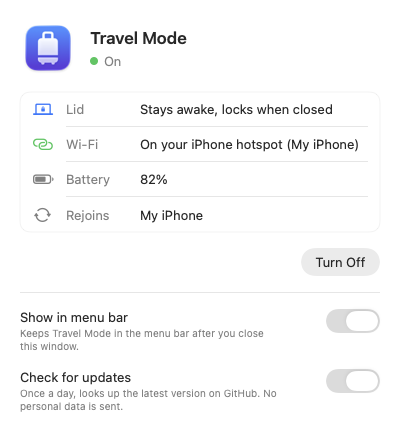
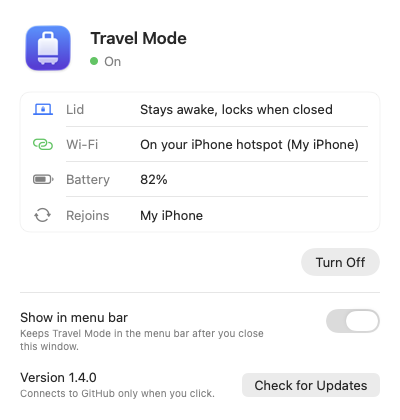
Update check: a button instead of a daily background check
Travel Mode now goes online only when you click Check for Updates (window footer,
app menu, menu bar menu). The result shows next to the button: "You're up to date"
or the new version with a View on GitHub link. Removes the toggle, the daily timer,
the banner and the stored update state. README: Watch > Custom > Releases tip.

diff --git a/src/app/main.swift b/src/app/main.swift
@@ -129,68 +129,41 @@ final class TravelModel: ObservableObject {
         }
     }
 
-    @Published var checkForUpdates: Bool {
-        didSet {
-            UserDefaults.standard.set(checkForUpdates, forKey: "checkForUpdates")
-            if checkForUpdates { checkUpdatesIfDue() } else { setUpdate(nil) }
-        }
+    enum UpdateStatus: Equatable {
+        case idle, checking, upToDate
+        case available(AvailableUpdate)
+        case failed(String)
     }
-    @Published private(set) var update: AvailableUpdate?
+    /// Changes only when the user clicks Check for Updates: Travel Mode never checks on its own.
+    @Published private(set) var updateStatus = UpdateStatus.idle
+    var update: AvailableUpdate? {
+        if case .available(let u) = updateStatus { return u }
+        return nil
+    }
 
     var onMenuBarChange: ((Bool) -> Void)?
     var onChange: (() -> Void)?
 
     let tool: String
     private var timer: Timer?
-    private var updateTimer: Timer?
     private var refreshing = false
-    private var checkingUpdates = false
 
     init() {
         tool = Bundle.main.resourceURL!.appendingPathComponent("bin/travel-mode").path
-        let defaults = UserDefaults.standard
-        defaults.register(defaults: ["checkForUpdates": true])
-        showInMenuBar = defaults.bool(forKey: "showInMenuBar")
-        checkForUpdates = defaults.bool(forKey: "checkForUpdates")
-        // An update found by an earlier check, until this copy is that version or newer.
-        if checkForUpdates, let v = defaults.string(forKey: "updateVersion"),
-           let p = defaults.string(forKey: "updatePage"), let page = URL(string: p),
-           UpdateCheck.isNewer(v, than: UpdateCheck.currentVersion) {
-            update = AvailableUpdate(version: v, page: page)
-        }
+        showInMenuBar = UserDefaults.standard.bool(forKey: "showInMenuBar")
     }
 
-    // Updates
-
-    func setUpdate(_ u: AvailableUpdate?) {
-        update = u
-        let defaults = UserDefaults.standard
-        defaults.set(u?.version, forKey: "updateVersion")
-        defaults.set(u?.page.absoluteString, forKey: "updatePage")
-        onChange?()
-    }
-
-    func apply(_ result: UpdateCheck.Result) {
-        switch result {
-        case .available(let v, let page):
-            setUpdate(AvailableUpdate(version: v, page: page))
-        case .upToDate:
-            setUpdate(nil)
-        case .failed:
-            return // offline or similar: keep what we knew and try again later
-        }
-        UserDefaults.standard.set(Date().timeIntervalSince1970, forKey: "lastUpdateCheck")
-    }
-
-    /// At most once a day, and only when the user leaves "Check for updates" on.
-    func checkUpdatesIfDue() {
-        guard checkForUpdates, !checkingUpdates else { return }
-        let last = UserDefaults.standard.double(forKey: "lastUpdateCheck")
-        guard Date().timeIntervalSince1970 - last >= 24 * 3600 else { return }
-        checkingUpdates = true
+    func checkForUpdates() {
+        guard updateStatus != .checking else { return }
+        updateStatus = .checking
         UpdateCheck.check { [weak self] result in
-            self?.checkingUpdates = false
-            self?.apply(result)
+            guard let self = self else { return }
+            switch result {
+            case .available(let v, let page): self.updateStatus = .available(AvailableUpdate(version: v, page: page))
+            case .upToDate: self.updateStatus = .upToDate
+            case .failed(let why): self.updateStatus = .failed(why)
+            }
+            self.onChange?()
         }
     }
 
@@ -238,9 +211,6 @@ final class TravelModel: ObservableObject {
 
     func startTimer() {
         timer = Timer.scheduledTimer(withTimeInterval: 5, repeats: true) { [weak self] _ in self?.refresh() }
-        updateTimer = Timer.scheduledTimer(withTimeInterval: 3600, repeats: true) { [weak self] _ in
-            self?.checkUpdatesIfDue()
-        }
     }
 
     func setOn(_ on: Bool) { perform([on ? "on" : "off"]) }
@@ -312,6 +282,29 @@ struct InfoRow: View {
     }
 }
 
+struct UpdateStatusLine: View {
+    let status: TravelModel.UpdateStatus
+
+    var body: some View {
+        switch status {
+        case .idle: caption("Connects to GitHub only when you click.")
+        case .checking: caption("Checking…")
+        case .upToDate: caption("You're up to date.")
+        case .failed(let why): caption("Couldn't check: \(why)")
+        case .available(let u):
+            HStack(spacing: 4) {
+                Text("Version \(u.version) is available.")
+                Link("View on GitHub", destination: u.page)
+            }
+            .font(.caption)
+        }
+    }
+
+    func caption(_ text: String) -> some View {
+        Text(text).font(.caption).foregroundColor(.secondary).fixedSize(horizontal: false, vertical: true)
+    }
+}
+
 struct ContentView: View {
     @ObservedObject var model: TravelModel
     var chooseHotspot: () -> Void
@@ -333,20 +326,6 @@ struct ContentView: View {
                     }
                 }
                 Spacer()
-            }
-
-            if let u = model.update {
-                HStack(spacing: 10) {
-                    Image(systemName: "arrow.down.circle.fill")
-                        .font(.system(size: 16))
-                        .foregroundColor(.accentColor)
-                    Text("Travel Mode \(u.version) is available")
-                    Spacer()
-                    Button("Download…") { NSWorkspace.shared.open(u.page) }
-                }
-                .padding(.horizontal, 12)
-                .padding(.vertical, 8)
-                .background(RoundedRectangle(cornerRadius: 10).fill(Color.accentColor.opacity(0.12)))
             }
 
             VStack(spacing: 0) {
@@ -411,18 +390,14 @@ struct ContentView: View {
                     .toggleStyle(.switch)
             }
 
-            HStack(alignment: .top) {
+            HStack(alignment: .center) {
                 VStack(alignment: .leading, spacing: 2) {
-                    Text("Check for updates")
-                    Text("Once a day, looks up the latest version on GitHub. No personal data is sent.")
-                        .font(.caption)
-                        .foregroundColor(.secondary)
-                        .fixedSize(horizontal: false, vertical: true)
+                    Text("Version \(UpdateCheck.currentVersion)")
+                    UpdateStatusLine(status: model.updateStatus)
                 }
                 Spacer()
-                Toggle("Check for updates", isOn: $model.checkForUpdates)
-                    .labelsHidden()
-                    .toggleStyle(.switch)
+                Button("Check for Updates") { model.checkForUpdates() }
+                    .disabled(model.updateStatus == .checking)
             }
         }
         .padding(20)
@@ -448,7 +423,6 @@ final class AppDelegate: NSObject, NSApplicationDelegate, NSWindowDelegate, NSMe
         showWindow()
         checkLocation()
         refreshWatcherIfNeeded()
-        model.checkUpdatesIfDue()
     }
 
     /// Running from the disk image or a quarantine "translocated" copy, which disappear later.
@@ -630,7 +604,7 @@ final class AppDelegate: NSObject, NSApplicationDelegate, NSWindowDelegate, NSMe
         action(s.isOn ? "Turn Off" : "Turn On", #selector(toggleFromMenu))
         if !model.onHotspot { action(model.joinTitle, #selector(joinFromMenu)) }
         menu.addItem(.separator())
-        if let u = model.update { action("Download Travel Mode \(u.version)…", #selector(openUpdatePage)) }
+        if let u = model.update { action("Version \(u.version) on GitHub…", #selector(openUpdatePage)) }
         action("Check for Updates…", #selector(checkForUpdatesNow))
         action("Open Travel Mode…", #selector(showWindow))
         let quit = NSMenuItem(title: "Quit Travel Mode", action: #selector(NSApplication.terminate(_:)), keyEquivalent: "q")
@@ -645,29 +619,10 @@ final class AppDelegate: NSObject, NSApplicationDelegate, NSWindowDelegate, NSMe
         if let u = model.update { NSWorkspace.shared.open(u.page) }
     }
 
+    /// Menu items: open the window and check there, so the result shows next to the button.
     @objc func checkForUpdatesNow() {
-        UpdateCheck.check { [weak self] result in
-            guard let self = self else { return }
-            self.model.apply(result)
-            if #available(macOS 14.0, *) { NSApp.activate() } else { NSApp.activate(ignoringOtherApps: true) }
-            let alert = NSAlert()
-            switch result {
-            case .available(let v, let page):
-                alert.messageText = "Travel Mode \(v) is available"
-                alert.informativeText = "You have \(UpdateCheck.currentVersion). Download the new disk image from GitHub, quit Travel Mode, then drag the new Travel Mode onto Applications and choose Replace. Your settings stay as they are."
-                alert.addButton(withTitle: "Download…")
-                alert.addButton(withTitle: "Later")
-                if alert.runModal() == .alertFirstButtonReturn { NSWorkspace.shared.open(page) }
-            case .upToDate(let v):
-                alert.messageText = "Travel Mode is up to date"
-                alert.informativeText = "Version \(v) is the latest."
-                alert.runModal()
-            case .failed(let why):
-                alert.messageText = "Couldn't check for updates"
-                alert.informativeText = why
-                alert.runModal()
-            }
-        }
+        showWindow()
+        model.checkForUpdates()
     }
 
     @objc func joinFromMenu() {

diff --git a/README.md b/README.md
@@ -32,7 +32,7 @@ an automatic screen lock, a hotspot check and automatic reconnect.
 | **Battery at a glance** | Shown in the window and the menu bar menu |
 | **Menu bar icon (optional)** | A suitcase icon, filled when on, with Turn On / Off and Join in its menu |
 | **Survives restarts** | If you restart while it's on, the watcher comes back on its own |
-| **Update check** | Once a day it looks for a newer release on GitHub and offers the download (you can turn this off) |
+| **Update check** | Click **Check for Updates** to see if there's a newer release, with a link to it on GitHub |
 
 The app asks for your Mac password (the normal macOS dialog) each time you turn it on or off.
 Your password goes to macOS, never to the app. If the screen lock can't start, Travel Mode
@@ -103,15 +103,18 @@ network is your iPhone.
 
 ## Updates
 
-With **Check for updates** on (the default), the app asks GitHub once a day for the latest
-release of this repository. When there's a newer version you'll see a banner in the window and a
-**Download** item in the menu bar menu; **Travel Mode > Check for Updates…** checks right away.
+Click **Check for Updates** at the bottom of the window (also in the **Travel Mode** menu and the
+menu bar menu). It asks GitHub for this repository's latest release and shows either "You're up
+to date" or the new version with a **View on GitHub** link. Travel Mode never checks on its own,
+and never downloads or installs anything itself.
 
-Travel Mode never downloads or installs anything itself. To update: download the new disk image
-from the release page, quit Travel Mode, drag the new Travel Mode onto Applications and choose
-**Replace**. Your settings stay. If Travel Mode was on, it keeps running and the background
-watcher switches to the new version the next time you open the app. From source: `git pull`
-then `./install.sh`.
+To update: download the new disk image from the release page, quit Travel Mode, drag the new
+Travel Mode onto Applications and choose **Replace**. Your settings stay. If Travel Mode was on,
+it keeps running, and the background watcher switches to the new version the next time you open
+the app. From source: `git pull`, then `./install.sh`.
+
+Want to hear about new versions without checking? On GitHub, click **Watch > Custom > Releases**
+on this repository.
 
 ## Automatic reconnect
 
@@ -152,10 +155,9 @@ remembers or rejoins one without a password.
 ## Privacy
 
 - Travel Mode has no accounts, analytics or tracking.
-- The only network request it makes is the daily update check: an anonymous request to
+- It goes online only when you click **Check for Updates**: one anonymous request to
   `api.github.com` for this repository's latest release. Like any web request, GitHub sees your IP
-  address; the app sends nothing else about you or your Mac. Switch off **Check for updates** to
-  stop it.
+  address; the app sends nothing else about you or your Mac.
 - The hotspot name and the event log stay on your Mac (see "Files it touches") and are deleted
   when you uninstall.
 
@@ -184,7 +186,7 @@ never sleep. If that happens, run `sudo pmset -a disablesleep 0` in Terminal.
 | `~/Library/LaunchAgents/io.github.ahendraatmaja.mac-travel-mode.lid-lock.plist` | The watcher (lid lock + reconnect), only while on |
 | `~/Library/Application Support/Travel Mode/hotspot-name` | The last iPhone hotspot you used |
 | `~/Library/Logs/travel-mode.log` | Lid locks, Wi-Fi drops, reconnect attempts (trimmed to the newest 1000 lines past 512 KB) |
-| `~/Library/Preferences/io.github.ahendraatmaja.mac-travel-mode.plist` | Your choices (menu bar icon, update check), window position, last update check |
+| `~/Library/Preferences/io.github.ahendraatmaja.mac-travel-mode.plist` | The "Show in menu bar" choice and window position |
 | System power setting `SleepDisabled` | Set to 1 while on, 0 when off |
 
 ## Development

diff --git a/SECURITY.md b/SECURITY.md
@@ -1,8 +1,8 @@
 # Security
 
 Travel Mode runs one command as administrator, `pmset -a disablesleep 1` or `0`, through the
-standard macOS password dialog. Everything else runs as you. The app makes one network request:
-the optional daily update check to `api.github.com`.
+standard macOS password dialog. Everything else runs as you. The app goes online only when you click
+**Check for Updates** (one request to `api.github.com`).
 
 ## Reporting a problem
 
